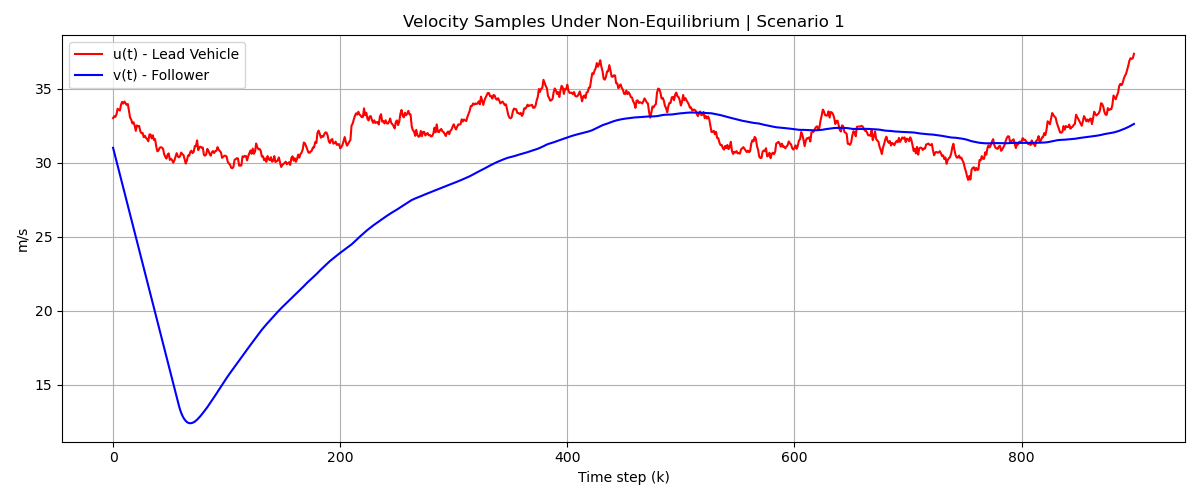
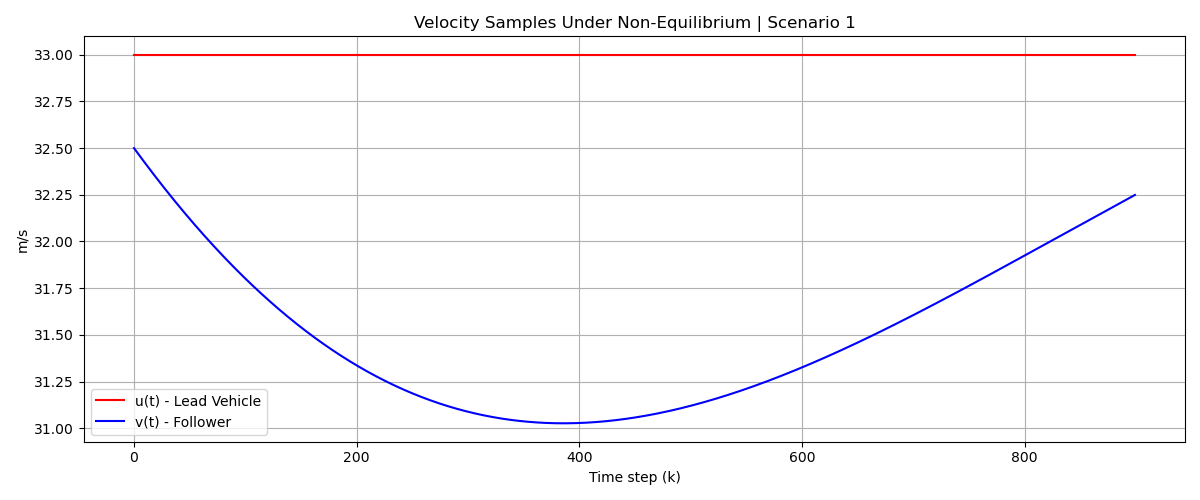
updated codebase

diff --git a/src/rls.py b/src/rls.py
@@ -1,40 +1,10 @@
 import numpy as np
 import matplotlib.pyplot as plt
+from functions import invert_gamma
 import os
-
 plot_dir = os.path.join(os.path.dirname(__file__), "plots")
-os.makedirs(plot_dir, exist_ok=True)
 
-"""
-This functions.py file will host all of the necessary functions to execute 
-functions of the Recursive Least Squares. 
-"""
-
-# Invert Gamma Function:  
-def invert_gamma(gamma, dt):
-    """
-    Given gamma1, gamma2, gamma3 = alpha, beta, tau, we are able to directly
-    solve for alpha, beta, tau by using the following equations algebraically:
-    - alpha = gamma2 / dt
-    - beta = gamma3 / dt
-    - tau = ((1 - gamma1 - gamma3) / gamma2)
-    """
-    gamma1, gamma2, gamma3 = gamma
-
-    alpha = gamma2/dt
-    beta  = gamma3/dt
-
-    if abs(alpha) < 1e-8: # Added tolerance for numerical stability
-        # Add print statement for debugging
-        tau = 0.0
-    else:
-        tau = ((1 - gamma1 - gamma3) / gamma2)
-    return alpha, beta, tau
-
-# RLS Filter Function: 
-# note: need to remove scenario paramter from main definition since only scenario 1
-# uses that particular parameter. 
-def kalman_filter(u_t, v_t, s_t, time, dt, true_theta, label):
+def rls_filter(u_t, v_t, s_t, time, dt, true_theta, label):
     """
     Given u_t, v_t, s_t, time, and dt:
     - We will set initial guess for theta vector
@@ -47,8 +17,8 @@ def kalman_filter(u_t, v_t, s_t, time, dt, true_theta, label):
     - Update parameters at each step
     - Update covariance matrix
     """
-    gamma_est = np.array([0.9, 0.01, 0.01])  # some initial guess
-    P = np.eye(3) * 1000.0 # covariance matrix 
+    gamma_est = np.array([0.976, 0.01, 0.01])  # some initial guess from paper
+    P = np.eye(3) * 0.1 # covariance matrix 
 
     gamma_history = np.zeros((time, 3))
     theta_history = np.zeros((time, 3))  # [alpha, beta, tau] at each step - 3 x 900 matrix storing all values of theta
@@ -71,21 +41,22 @@ def kalman_filter(u_t, v_t, s_t, time, dt, true_theta, label):
           adequately reflected based on the ill conditions of the matrix X. 
         '''
 
-        X = np.array([v_t[k-1], s_t[k-1], u_t[k-1]])
+        X = np.array([v_t[k], s_t[k], u_t[k]]) # This is X_k-1 
 
         rank_X = np.linalg.matrix_rank(X)
 
         #X = np.array([v_t[k-1], s_t[k-1], u_t[k-1]])
 
         y = v_t[k]
-        P = (np.eye(3) - np.outer(K, X)).dot(P)
 
-        # Compute Kalman gain
-        denominator = 1.0 + X.T.dot(P).dot(X)
-        K = P.dot(X) / denominator
+        # Add docs later: 
+        sum = 0       
+        for i in range(k):
+            sum += np.outer(X, X)
+        P = np.linalg.inv(sum)
 
         # RLS Update for Gamma Parameters:
-        gamma_est = gamma_est + K * (y - X.T.dot(gamma_est))
+        gamma_est = gamma_est + X.T @ P.T * (y - X.T.dot(gamma_est))
 
         # Store History of Parameter Estimates:
         gamma_history[k] = gamma_est

diff --git a/src/main.py b/src/main.py
@@ -12,13 +12,13 @@ np.random.seed(41) # seed for reproducibility
 time = 900 # number of time steps
 t_axis = np.arange(time)
 
-dt = 1e-1 # time step difference differential  
+dt = 1e-2 # time step difference differential  
 
-s_0 = 50.0 # initial space gap (60 meters)
+s_0 = 37.8 # initial space gap (60 meters)
 u_0 = 33.0 # initial lead velocity (33 m/s)
-v_0 = 31.0 # initial following velocity (31 m/s)
+v_0 = 32.5 # initial following velocity (31 m/s)
 
-true_theta = np.array([0.08, 0.12, 12.0]) # true theta parameter 
+true_theta = np.array([0.08, 0.12, 1.50]) # true theta parameter from paper 
 
 dv_max = 3.0 # maximum acceleration/deceleration (3 m/s^2)
 
@@ -36,11 +36,27 @@ if __name__ == "__main__":
     scenario_1_data("EQ", u_0, v_0, s_0, time, dv_max, dt, true_theta)
 
     # Scenario 2: 
+    # - We simulate two vehicles, where u(t) is the lead vehicle and v(t) is the ego
+    #   vehicle. We model these two cars, with u(t) in the lead on a highway. We will 
+    #   only test one case. 
+    # - Case 1 | Induced Road Curvature: Vehicles are under constant predetermined speed
     print("----------Case 2: Induced Road Curvature----------")
     scenario_2_data(u_0, v_0, s_0, time, dv_max, dt, true_theta)
 
+    # Scenario 3:
+    # - We simulate two vehicles, where u(t) is the lead vehicle and v(t) is the ego
+    #   vehicle. We model these two cars, with u(t) in the lead on a suburban road. We will
+    #   test two cases.
+    # - Case 1 | Suburban Environment: Vehicles are under constant predetermined speed with 
+    #            more frequent stops and starts
     print("----------Case 3: Suburban Environment----------")
     scenario_3_data(u_0, v_0, s_0, time, dv_max, dt, true_theta)
-   
+    
+    # Scenario 4: 
+    # - We simulate two vehicles, where u(t) is the lead vehicle and v(t) is the ego
+    #   vehicle. We model these two cars, with u(t) in the lead on a highway. We will 
+    #   only test one case. 
+    # - Case 1 | Aggressive Behavior: Vehicles are under constant predetermined speed with 
+    #            road hazards that require hard breaking. 
     print("----------Case 4: Aggressive Behavior----------")
     scenario_4_data(u_0, v_0, s_0, time, dv_max, dt, true_theta)

diff --git a/src/vehicles.py b/src/vehicles.py
@@ -1,7 +1,7 @@
 # Import Needed Dependencies: 
 import numpy as np
 import matplotlib.pyplot as plt
-from functions import rls_filter
+from rls import rls_filter
 import os
 
 plot_dir = os.path.join(os.path.dirname(__file__), "plots")
@@ -23,7 +23,7 @@ def scenario_1_data(case, u_0, v_0, s_0, time, dv_max, dt, true_theta):
         """
         for i in range(1, time):
             # Velocity Sample Generation for u(t)
-            u_t[i] = u_t[i - 1] + np.random.normal(loc=0, scale=0.25) # mean 0, std 0.5
+            u_t[i] = u_t[i - 1] + np.random.normal(loc=0, scale=0) # mean 0, std 0.5
 
             # Compute Current Gap and Velocity: 
             s_prev = s_t[i - 1]
@@ -95,7 +95,7 @@ def scenario_1_data(case, u_0, v_0, s_0, time, dv_max, dt, true_theta):
             s_t[i] = s_prev + (u_prev - v_prev) * dt
 
         #final_data = [u_t, v_t, s_t]
-        rls_filter(u_t, v_t, s_t, time, dt, true_theta, label="Random-Walk_Equilibrium")
+        rls_filter(u_t, v_t, s_t, time, dt, true_theta, label="Random-Walk_Non-Equilibrium")
         
         # Plot velocities
         plt.figure(figsize=(12, 5))
